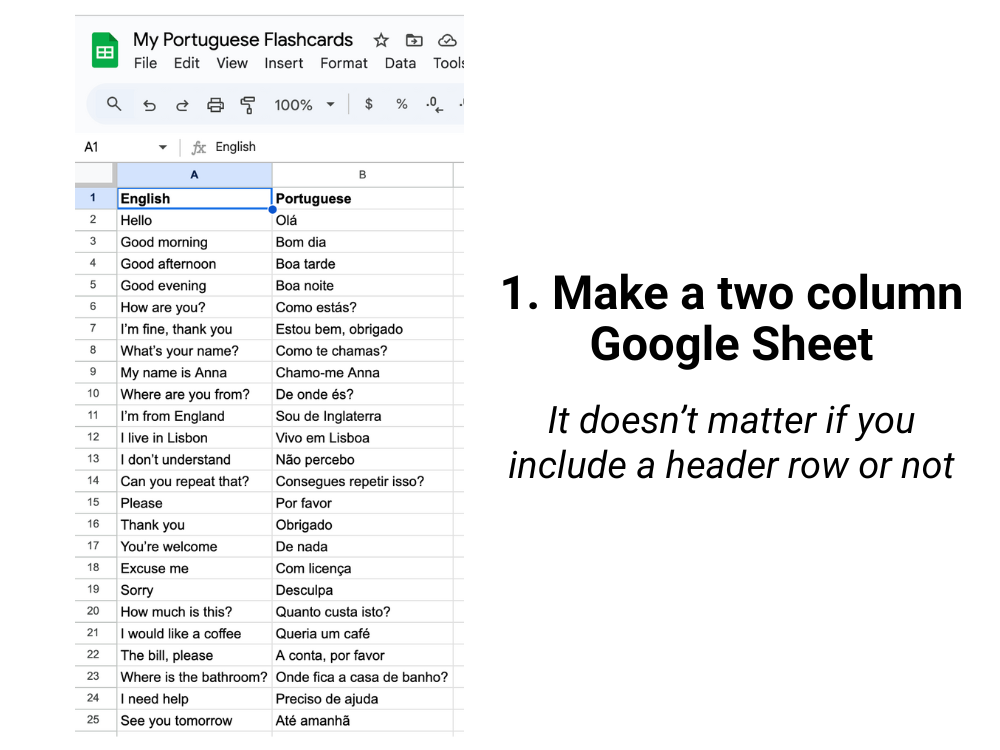
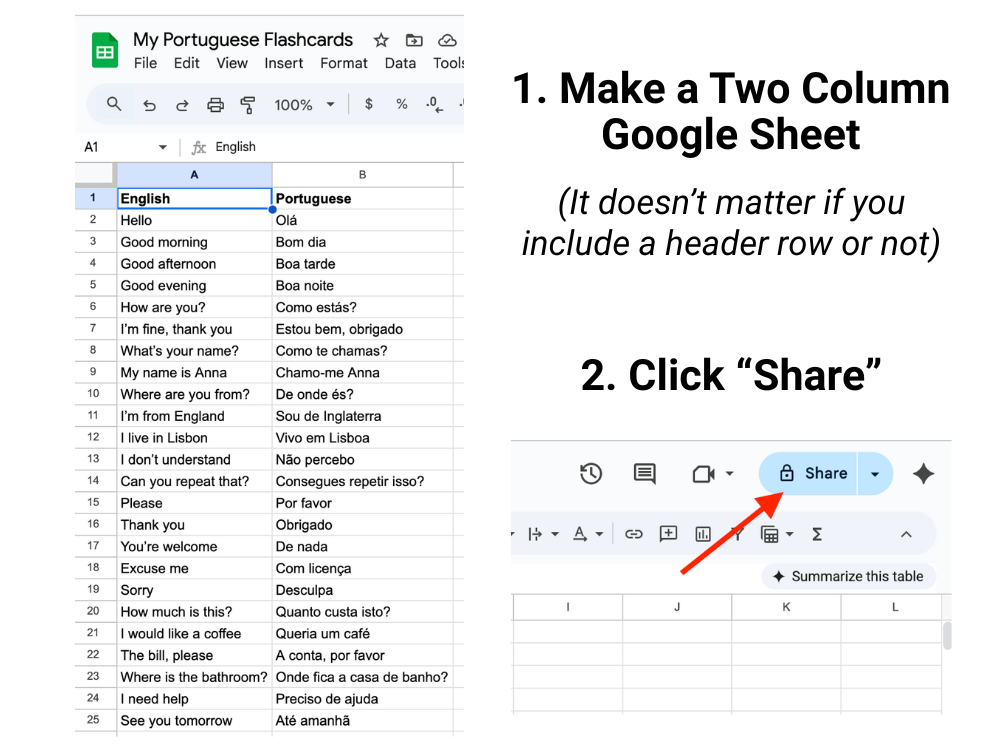
UPDATED TUTORIAL IMAGES

diff --git a/app.js b/app.js
@@ -415,7 +415,7 @@ recentDecksContainer.addEventListener('click', (event) => {
 
 
 // --- TUTORIAL MODAL LOGIC ---
-const tutorialImages = ['assets/tutorial-1.png', 'assets/tutorial-2.png', 'assets/tutorial-3.png', 'assets/tutorial-4.png', 'assets/tutorial-5.png', 'assets/tutorial-6.png'];
+const tutorialImages = ['assets/tutorial-1.png', 'assets/tutorial-2.png', 'assets/tutorial-3.png', 'assets/tutorial-4.png'];
 let currentSlideIndex = 0;
 
 function showSlide(index) {
